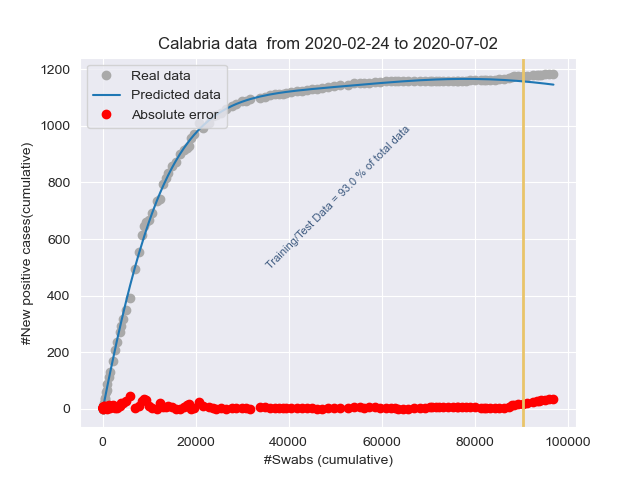
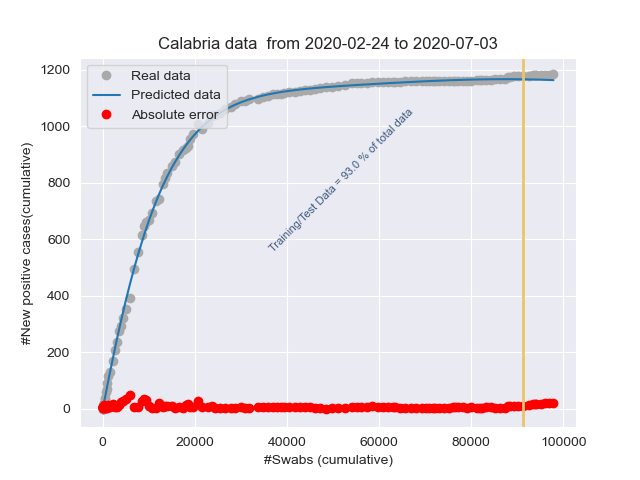
Add files via upload

diff --git a/stat_Friuli Venezia Giulia.html b/stat_Friuli Venezia Giulia.html
@@ -1,1 +1,1 @@
-<!DOCTYPE html><html lang="it"><head><title>Results</title><meta charset="utf-8"><meta name="viewport" content="width=device-width, initial-scale=1"><link rel="stylesheet" href="bootstrap.min.css"><script src="https://ajax.googleapis.com/ajax/libs/jquery/3.4.1/jquery.min.js"></script><script src="https://maxcdn.bootstrapcdn.com/bootstrap/3.4.1/js/bootstrap.min.js"></script></head><body><h3>Day: 2020-07-02</h3><p class="lead my-3">New positive cases: <b>2</b></p><p class="lead my-3">Variation of positive cases: <b>-50.0%</b></p><p class="lead my-3">Number of swabs: <b>2289.0</b></p><p class="lead my-3">Variation of swabs: <b>1.19%</b></p><p class="lead my-3">Postive cases/Swabs: <b>0.09 %</b></p><p class="lead my-3">Number of people admitted to Intensive care: <b>0</b></p><p class="lead my-3">Number of recovered people: <b>-4.0</b></p><p class="lead my-3">Number of dead people: <b>0.0</b></p><h3>Total</h3><p class="lead my-3">Population of  Friuli Venezia Giulia: <b>1215220</b> <a href="http://dati.istat.it/Index.aspx?QueryId=18548" target="_blank">ISTAT data</a></p><p class="lead my-3">Total number of positive cases from 2020-02-24 00:00:00 to 2020-07-02: <b> 3314</b></p><p class="lead my-3">Total number of swabs from 2020-02-24 00:00:00 to 2020-07-02: <b> 194395</b></p><p class="lead my-3">TotalSwabs/Population: <b> 16.0%</b></p></body></html>
+<!DOCTYPE html><html lang="it"><head><title>Results</title><meta charset="utf-8"><meta name="viewport" content="width=device-width, initial-scale=1"><link rel="stylesheet" href="bootstrap.min.css"><script src="https://ajax.googleapis.com/ajax/libs/jquery/3.4.1/jquery.min.js"></script><script src="https://maxcdn.bootstrapcdn.com/bootstrap/3.4.1/js/bootstrap.min.js"></script></head><body><h3>Day: 2020-07-03</h3><p class="lead my-3">New positive cases: <b>4</b></p><p class="lead my-3">Variation of positive cases: <b>100.0%</b></p><p class="lead my-3">Number of swabs: <b>2580.0</b></p><p class="lead my-3">Variation of swabs: <b>1.33%</b></p><p class="lead my-3">Postive cases/Swabs: <b>0.16 %</b></p><p class="lead my-3">Number of people admitted to Intensive care: <b>0</b></p><p class="lead my-3">Number of recovered people: <b>-2.0</b></p><p class="lead my-3">Number of dead people: <b>0.0</b></p><h3>Total</h3><p class="lead my-3">Population of  Friuli Venezia Giulia: <b>1215220</b> <a href="http://dati.istat.it/Index.aspx?QueryId=18548" target="_blank">ISTAT data</a></p><p class="lead my-3">Total number of positive cases from 2020-02-24 00:00:00 to 2020-07-03: <b> 3318</b></p><p class="lead my-3">Total number of swabs from 2020-02-24 00:00:00 to 2020-07-03: <b> 196975</b></p><p class="lead my-3">TotalSwabs/Population: <b> 16.21%</b></p></body></html>

diff --git a/stat_Lombardia.html b/stat_Lombardia.html
@@ -1,1 +1,1 @@
-<!DOCTYPE html><html lang="it"><head><title>Results</title><meta charset="utf-8"><meta name="viewport" content="width=device-width, initial-scale=1"><link rel="stylesheet" href="bootstrap.min.css"><script src="https://ajax.googleapis.com/ajax/libs/jquery/3.4.1/jquery.min.js"></script><script src="https://maxcdn.bootstrapcdn.com/bootstrap/3.4.1/js/bootstrap.min.js"></script></head><body><h3>Day: 2020-07-02</h3><p class="lead my-3">New positive cases: <b>98</b></p><p class="lead my-3">Variation of positive cases: <b>-10.09%</b></p><p class="lead my-3">Number of swabs: <b>9440.0</b></p><p class="lead my-3">Variation of swabs: <b>0.9%</b></p><p class="lead my-3">Postive cases/Swabs: <b>1.04 %</b></p><p class="lead my-3">Number of people admitted to Intensive care: <b>41</b></p><p class="lead my-3">Number of recovered people: <b>188.0</b></p><p class="lead my-3">Number of dead people: <b>21.0</b></p><h3>Total</h3><p class="lead my-3">Population of  Lombardia: <b>10060574</b> <a href="http://dati.istat.it/Index.aspx?QueryId=18548" target="_blank">ISTAT data</a></p><p class="lead my-3">Total number of positive cases from 2020-02-24 00:00:00 to 2020-07-02: <b> 94102</b></p><p class="lead my-3">Total number of swabs from 2020-02-24 00:00:00 to 2020-07-02: <b> 1054415</b></p><p class="lead my-3">TotalSwabs/Population: <b> 10.48%</b></p></body></html>
+<!DOCTYPE html><html lang="it"><head><title>Results</title><meta charset="utf-8"><meta name="viewport" content="width=device-width, initial-scale=1"><link rel="stylesheet" href="bootstrap.min.css"><script src="https://ajax.googleapis.com/ajax/libs/jquery/3.4.1/jquery.min.js"></script><script src="https://maxcdn.bootstrapcdn.com/bootstrap/3.4.1/js/bootstrap.min.js"></script></head><body><h3>Day: 2020-07-03</h3><p class="lead my-3">New positive cases: <b>115</b></p><p class="lead my-3">Variation of positive cases: <b>17.35%</b></p><p class="lead my-3">Number of swabs: <b>9758.0</b></p><p class="lead my-3">Variation of swabs: <b>0.93%</b></p><p class="lead my-3">Postive cases/Swabs: <b>1.18 %</b></p><p class="lead my-3">Number of people admitted to Intensive care: <b>41</b></p><p class="lead my-3">Number of recovered people: <b>261.0</b></p><p class="lead my-3">Number of dead people: <b>4.0</b></p><h3>Total</h3><p class="lead my-3">Population of  Lombardia: <b>10060574</b> <a href="http://dati.istat.it/Index.aspx?QueryId=18548" target="_blank">ISTAT data</a></p><p class="lead my-3">Total number of positive cases from 2020-02-24 00:00:00 to 2020-07-03: <b> 94217</b></p><p class="lead my-3">Total number of swabs from 2020-02-24 00:00:00 to 2020-07-03: <b> 1064173</b></p><p class="lead my-3">TotalSwabs/Population: <b> 10.58%</b></p></body></html>

diff --git a/stat_Emilia-Romagna.html b/stat_Emilia-Romagna.html
@@ -1,1 +1,1 @@
-<!DOCTYPE html><html lang="it"><head><title>Results</title><meta charset="utf-8"><meta name="viewport" content="width=device-width, initial-scale=1"><link rel="stylesheet" href="bootstrap.min.css"><script src="https://ajax.googleapis.com/ajax/libs/jquery/3.4.1/jquery.min.js"></script><script src="https://maxcdn.bootstrapcdn.com/bootstrap/3.4.1/js/bootstrap.min.js"></script></head><body><h3>Day: 2020-07-02</h3><p class="lead my-3">New positive cases: <b>27</b></p><p class="lead my-3">Variation of positive cases: <b>68.75%</b></p><p class="lead my-3">Number of swabs: <b>4862.0</b></p><p class="lead my-3">Variation of swabs: <b>0.97%</b></p><p class="lead my-3">Postive cases/Swabs: <b>0.56 %</b></p><p class="lead my-3">Number of people admitted to Intensive care: <b>9</b></p><p class="lead my-3">Number of recovered people: <b>25.0</b></p><p class="lead my-3">Number of dead people: <b>1.0</b></p><h3>Total</h3><p class="lead my-3">Population of  Emilia-Romagna: <b>4459477</b> <a href="http://dati.istat.it/Index.aspx?QueryId=18548" target="_blank">ISTAT data</a></p><p class="lead my-3">Total number of positive cases from 2020-02-24 00:00:00 to 2020-07-02: <b> 28539</b></p><p class="lead my-3">Total number of swabs from 2020-02-24 00:00:00 to 2020-07-02: <b> 504288</b></p><p class="lead my-3">TotalSwabs/Population: <b> 11.31%</b></p></body></html>
+<!DOCTYPE html><html lang="it"><head><title>Results</title><meta charset="utf-8"><meta name="viewport" content="width=device-width, initial-scale=1"><link rel="stylesheet" href="bootstrap.min.css"><script src="https://ajax.googleapis.com/ajax/libs/jquery/3.4.1/jquery.min.js"></script><script src="https://maxcdn.bootstrapcdn.com/bootstrap/3.4.1/js/bootstrap.min.js"></script></head><body><h3>Day: 2020-07-03</h3><p class="lead my-3">New positive cases: <b>27</b></p><p class="lead my-3">Variation of positive cases: <b>0.0%</b></p><p class="lead my-3">Number of swabs: <b>4403.0</b></p><p class="lead my-3">Variation of swabs: <b>0.87%</b></p><p class="lead my-3">Postive cases/Swabs: <b>0.61 %</b></p><p class="lead my-3">Number of people admitted to Intensive care: <b>9</b></p><p class="lead my-3">Number of recovered people: <b>17.0</b></p><p class="lead my-3">Number of dead people: <b>2.0</b></p><h3>Total</h3><p class="lead my-3">Population of  Emilia-Romagna: <b>4459477</b> <a href="http://dati.istat.it/Index.aspx?QueryId=18548" target="_blank">ISTAT data</a></p><p class="lead my-3">Total number of positive cases from 2020-02-24 00:00:00 to 2020-07-03: <b> 28566</b></p><p class="lead my-3">Total number of swabs from 2020-02-24 00:00:00 to 2020-07-03: <b> 508691</b></p><p class="lead my-3">TotalSwabs/Population: <b> 11.41%</b></p></body></html>

diff --git a/stat_Italy.html b/stat_Italy.html
@@ -1,1 +1,1 @@
-<!DOCTYPE html><html lang="it"><head><title>Results</title><meta charset="utf-8"><meta name="viewport" content="width=device-width, initial-scale=1"><link rel="stylesheet" href="bootstrap.min.css"><script src="https://ajax.googleapis.com/ajax/libs/jquery/3.4.1/jquery.min.js"></script><script src="https://maxcdn.bootstrapcdn.com/bootstrap/3.4.1/js/bootstrap.min.js"></script></head><body><h3>Day: 2020-07-02</h3><p class="lead my-3">New positive cases: <b>201</b></p><p class="lead my-3">Variation of positive cases: <b>7.49%</b></p><p class="lead my-3">Number of swabs: <b>53243.0</b></p><p class="lead my-3">Variation of swabs: <b>0.98%</b></p><p class="lead my-3">Postive cases/Swabs: <b>0.38 %</b></p><p class="lead my-3">Number of people admitted to Intensive care: <b>82</b></p><p class="lead my-3">Number of recovered people: <b>366.0</b></p><p class="lead my-3">Number of dead people: <b>30.0</b></p><h3>Total</h3><p class="lead my-3">Population of  Italy: <b>60359546</b> <a href="http://dati.istat.it/Index.aspx?QueryId=18548" target="_blank">ISTAT data</a></p><p class="lead my-3">Total number of positive cases from 2020-02-24 00:00:00 to 2020-07-02: <b> 240983</b></p><p class="lead my-3">Total number of swabs from 2020-02-24 00:00:00 to 2020-07-02: <b> 5498719</b></p><p class="lead my-3">TotalSwabs/Population: <b> 9.11%</b></p></body></html>
+<!DOCTYPE html><html lang="it"><head><title>Results</title><meta charset="utf-8"><meta name="viewport" content="width=device-width, initial-scale=1"><link rel="stylesheet" href="bootstrap.min.css"><script src="https://ajax.googleapis.com/ajax/libs/jquery/3.4.1/jquery.min.js"></script><script src="https://maxcdn.bootstrapcdn.com/bootstrap/3.4.1/js/bootstrap.min.js"></script></head><body><h3>Day: 2020-07-03</h3><p class="lead my-3">New positive cases: <b>223</b></p><p class="lead my-3">Variation of positive cases: <b>10.95%</b></p><p class="lead my-3">Number of swabs: <b>77096.0</b></p><p class="lead my-3">Variation of swabs: <b>1.4%</b></p><p class="lead my-3">Postive cases/Swabs: <b>0.29 %</b></p><p class="lead my-3">Number of people admitted to Intensive care: <b>79</b></p><p class="lead my-3">Number of recovered people: <b>384.0</b></p><p class="lead my-3">Number of dead people: <b>15.0</b></p><h3>Total</h3><p class="lead my-3">Population of  Italy: <b>60359546</b> <a href="http://dati.istat.it/Index.aspx?QueryId=18548" target="_blank">ISTAT data</a></p><p class="lead my-3">Total number of positive cases from 2020-02-24 00:00:00 to 2020-07-03: <b> 241206</b></p><p class="lead my-3">Total number of swabs from 2020-02-24 00:00:00 to 2020-07-03: <b> 5575815</b></p><p class="lead my-3">TotalSwabs/Population: <b> 9.24%</b></p></body></html>

diff --git a/stat_Piemonte.html b/stat_Piemonte.html
@@ -1,1 +1,1 @@
-<!DOCTYPE html><html lang="it"><head><title>Results</title><meta charset="utf-8"><meta name="viewport" content="width=device-width, initial-scale=1"><link rel="stylesheet" href="bootstrap.min.css"><script src="https://ajax.googleapis.com/ajax/libs/jquery/3.4.1/jquery.min.js"></script><script src="https://maxcdn.bootstrapcdn.com/bootstrap/3.4.1/js/bootstrap.min.js"></script></head><body><h3>Day: 2020-07-02</h3><p class="lead my-3">New positive cases: <b>13</b></p><p class="lead my-3">Variation of positive cases: <b>-18.75%</b></p><p class="lead my-3">Number of swabs: <b>3356.0</b></p><p class="lead my-3">Variation of swabs: <b>0.8%</b></p><p class="lead my-3">Postive cases/Swabs: <b>0.39 %</b></p><p class="lead my-3">Number of people admitted to Intensive care: <b>11</b></p><p class="lead my-3">Number of recovered people: <b>62.0</b></p><p class="lead my-3">Number of dead people: <b>5.0</b></p><h3>Total</h3><p class="lead my-3">Population of  Piemonte: <b>4356406</b> <a href="http://dati.istat.it/Index.aspx?QueryId=18548" target="_blank">ISTAT data</a></p><p class="lead my-3">Total number of positive cases from 2020-02-24 00:00:00 to 2020-07-02: <b> 31378</b></p><p class="lead my-3">Total number of swabs from 2020-02-24 00:00:00 to 2020-07-02: <b> 422647</b></p><p class="lead my-3">TotalSwabs/Population: <b> 9.7%</b></p></body></html>
+<!DOCTYPE html><html lang="it"><head><title>Results</title><meta charset="utf-8"><meta name="viewport" content="width=device-width, initial-scale=1"><link rel="stylesheet" href="bootstrap.min.css"><script src="https://ajax.googleapis.com/ajax/libs/jquery/3.4.1/jquery.min.js"></script><script src="https://maxcdn.bootstrapcdn.com/bootstrap/3.4.1/js/bootstrap.min.js"></script></head><body><h3>Day: 2020-07-03</h3><p class="lead my-3">New positive cases: <b>16</b></p><p class="lead my-3">Variation of positive cases: <b>23.08%</b></p><p class="lead my-3">Number of swabs: <b>29405.0</b></p><p class="lead my-3">Variation of swabs: <b>6.96%</b></p><p class="lead my-3">Postive cases/Swabs: <b>0.05 %</b></p><p class="lead my-3">Number of people admitted to Intensive care: <b>10</b></p><p class="lead my-3">Number of recovered people: <b>36.0</b></p><p class="lead my-3">Number of dead people: <b>4.0</b></p><h3>Total</h3><p class="lead my-3">Population of  Piemonte: <b>4356406</b> <a href="http://dati.istat.it/Index.aspx?QueryId=18548" target="_blank">ISTAT data</a></p><p class="lead my-3">Total number of positive cases from 2020-02-24 00:00:00 to 2020-07-03: <b> 31394</b></p><p class="lead my-3">Total number of swabs from 2020-02-24 00:00:00 to 2020-07-03: <b> 452052</b></p><p class="lead my-3">TotalSwabs/Population: <b> 10.38%</b></p></body></html>

diff --git a/stat_Veneto.html b/stat_Veneto.html
@@ -1,1 +1,1 @@
-<!DOCTYPE html><html lang="it"><head><title>Results</title><meta charset="utf-8"><meta name="viewport" content="width=device-width, initial-scale=1"><link rel="stylesheet" href="bootstrap.min.css"><script src="https://ajax.googleapis.com/ajax/libs/jquery/3.4.1/jquery.min.js"></script><script src="https://maxcdn.bootstrapcdn.com/bootstrap/3.4.1/js/bootstrap.min.js"></script></head><body><h3>Day: 2020-07-02</h3><p class="lead my-3">New positive cases: <b>20</b></p><p class="lead my-3">Variation of positive cases: <b>566.67%</b></p><p class="lead my-3">Number of swabs: <b>11821.0</b></p><p class="lead my-3">Variation of swabs: <b>1.22%</b></p><p class="lead my-3">Postive cases/Swabs: <b>0.17 %</b></p><p class="lead my-3">Number of people admitted to Intensive care: <b>0</b></p><p class="lead my-3">Number of recovered people: <b>41.0</b></p><p class="lead my-3">Number of dead people: <b>0.0</b></p><h3>Total</h3><p class="lead my-3">Population of  Veneto: <b>4905854</b> <a href="http://dati.istat.it/Index.aspx?QueryId=18548" target="_blank">ISTAT data</a></p><p class="lead my-3">Total number of positive cases from 2020-02-24 00:00:00 to 2020-07-02: <b> 19308</b></p><p class="lead my-3">Total number of swabs from 2020-02-24 00:00:00 to 2020-07-02: <b> 982614</b></p><p class="lead my-3">TotalSwabs/Population: <b> 20.03%</b></p></body></html>
+<!DOCTYPE html><html lang="it"><head><title>Results</title><meta charset="utf-8"><meta name="viewport" content="width=device-width, initial-scale=1"><link rel="stylesheet" href="bootstrap.min.css"><script src="https://ajax.googleapis.com/ajax/libs/jquery/3.4.1/jquery.min.js"></script><script src="https://maxcdn.bootstrapcdn.com/bootstrap/3.4.1/js/bootstrap.min.js"></script></head><body><h3>Day: 2020-07-03</h3><p class="lead my-3">New positive cases: <b>5</b></p><p class="lead my-3">Variation of positive cases: <b>-75.0%</b></p><p class="lead my-3">Number of swabs: <b>9954.0</b></p><p class="lead my-3">Variation of swabs: <b>1.01%</b></p><p class="lead my-3">Postive cases/Swabs: <b>0.05 %</b></p><p class="lead my-3">Number of people admitted to Intensive care: <b>0</b></p><p class="lead my-3">Number of recovered people: <b>11.0</b></p><p class="lead my-3">Number of dead people: <b>1.0</b></p><h3>Total</h3><p class="lead my-3">Population of  Veneto: <b>4905854</b> <a href="http://dati.istat.it/Index.aspx?QueryId=18548" target="_blank">ISTAT data</a></p><p class="lead my-3">Total number of positive cases from 2020-02-24 00:00:00 to 2020-07-03: <b> 19313</b></p><p class="lead my-3">Total number of swabs from 2020-02-24 00:00:00 to 2020-07-03: <b> 992568</b></p><p class="lead my-3">TotalSwabs/Population: <b> 20.23%</b></p></body></html>

diff --git a/stat_P.A. Trento.html b/stat_P.A. Trento.html
@@ -1,1 +1,1 @@
-<!DOCTYPE html><html lang="it"><head><title>Results</title><meta charset="utf-8"><meta name="viewport" content="width=device-width, initial-scale=1"><link rel="stylesheet" href="bootstrap.min.css"><script src="https://ajax.googleapis.com/ajax/libs/jquery/3.4.1/jquery.min.js"></script><script src="https://maxcdn.bootstrapcdn.com/bootstrap/3.4.1/js/bootstrap.min.js"></script></head><body><h3>Day: 2020-07-02</h3><p class="lead my-3">New positive cases: <b>1</b></p><p class="lead my-3">Variation of positive cases: <b>0.0%</b></p><p class="lead my-3">Number of swabs: <b>1290.0</b></p><p class="lead my-3">Variation of swabs: <b>1.05%</b></p><p class="lead my-3">Postive cases/Swabs: <b>0.08 %</b></p><p class="lead my-3">Number of people admitted to Intensive care: <b>0</b></p><p class="lead my-3">Number of recovered people: <b>2.0</b></p><p class="lead my-3">Number of dead people: <b>0.0</b></p><h3>Total</h3><p class="lead my-3">Population of  P.A. Trento: <b>541098</b> <a href="http://dati.istat.it/Index.aspx?QueryId=18548" target="_blank">ISTAT data</a></p><p class="lead my-3">Total number of positive cases from 2020-02-24 00:00:00 to 2020-07-02: <b> 4478</b></p><p class="lead my-3">Total number of swabs from 2020-02-24 00:00:00 to 2020-07-02: <b> 123864</b></p><p class="lead my-3">TotalSwabs/Population: <b> 22.89%</b></p></body></html>
+<!DOCTYPE html><html lang="it"><head><title>Results</title><meta charset="utf-8"><meta name="viewport" content="width=device-width, initial-scale=1"><link rel="stylesheet" href="bootstrap.min.css"><script src="https://ajax.googleapis.com/ajax/libs/jquery/3.4.1/jquery.min.js"></script><script src="https://maxcdn.bootstrapcdn.com/bootstrap/3.4.1/js/bootstrap.min.js"></script></head><body><h3>Day: 2020-07-03</h3><p class="lead my-3">New positive cases: <b>6</b></p><p class="lead my-3">Variation of positive cases: <b>500.0%</b></p><p class="lead my-3">Number of swabs: <b>1342.0</b></p><p class="lead my-3">Variation of swabs: <b>1.08%</b></p><p class="lead my-3">Postive cases/Swabs: <b>0.45 %</b></p><p class="lead my-3">Number of people admitted to Intensive care: <b>0</b></p><p class="lead my-3">Number of recovered people: <b>6.0</b></p><p class="lead my-3">Number of dead people: <b>0.0</b></p><h3>Total</h3><p class="lead my-3">Population of  P.A. Trento: <b>541098</b> <a href="http://dati.istat.it/Index.aspx?QueryId=18548" target="_blank">ISTAT data</a></p><p class="lead my-3">Total number of positive cases from 2020-02-24 00:00:00 to 2020-07-03: <b> 4484</b></p><p class="lead my-3">Total number of swabs from 2020-02-24 00:00:00 to 2020-07-03: <b> 125206</b></p><p class="lead my-3">TotalSwabs/Population: <b> 23.14%</b></p></body></html>

diff --git a/stat_Campania.html b/stat_Campania.html
@@ -1,1 +1,1 @@
-<!DOCTYPE html><html lang="it"><head><title>Results</title><meta charset="utf-8"><meta name="viewport" content="width=device-width, initial-scale=1"><link rel="stylesheet" href="bootstrap.min.css"><script src="https://ajax.googleapis.com/ajax/libs/jquery/3.4.1/jquery.min.js"></script><script src="https://maxcdn.bootstrapcdn.com/bootstrap/3.4.1/js/bootstrap.min.js"></script></head><body><h3>Day: 2020-07-02</h3><p class="lead my-3">New positive cases: <b>3</b></p><p class="lead my-3">Variation of positive cases: <b>-66.67%</b></p><p class="lead my-3">Number of swabs: <b>1424.0</b></p><p class="lead my-3">Variation of swabs: <b>0.5%</b></p><p class="lead my-3">Postive cases/Swabs: <b>0.21 %</b></p><p class="lead my-3">Number of people admitted to Intensive care: <b>0</b></p><p class="lead my-3">Number of recovered people: <b>2.0</b></p><p class="lead my-3">Number of dead people: <b>0.0</b></p><h3>Total</h3><p class="lead my-3">Population of  Campania: <b>5801692</b> <a href="http://dati.istat.it/Index.aspx?QueryId=18548" target="_blank">ISTAT data</a></p><p class="lead my-3">Total number of positive cases from 2020-02-24 00:00:00 to 2020-07-02: <b> 4702</b></p><p class="lead my-3">Total number of swabs from 2020-02-24 00:00:00 to 2020-07-02: <b> 286812</b></p><p class="lead my-3">TotalSwabs/Population: <b> 4.94%</b></p></body></html>
+<!DOCTYPE html><html lang="it"><head><title>Results</title><meta charset="utf-8"><meta name="viewport" content="width=device-width, initial-scale=1"><link rel="stylesheet" href="bootstrap.min.css"><script src="https://ajax.googleapis.com/ajax/libs/jquery/3.4.1/jquery.min.js"></script><script src="https://maxcdn.bootstrapcdn.com/bootstrap/3.4.1/js/bootstrap.min.js"></script></head><body><h3>Day: 2020-07-03</h3><p class="lead my-3">New positive cases: <b>10</b></p><p class="lead my-3">Variation of positive cases: <b>233.33%</b></p><p class="lead my-3">Number of swabs: <b>2441.0</b></p><p class="lead my-3">Variation of swabs: <b>0.85%</b></p><p class="lead my-3">Postive cases/Swabs: <b>0.41 %</b></p><p class="lead my-3">Number of people admitted to Intensive care: <b>0</b></p><p class="lead my-3">Number of recovered people: <b>3.0</b></p><p class="lead my-3">Number of dead people: <b>0.0</b></p><h3>Total</h3><p class="lead my-3">Population of  Campania: <b>5801692</b> <a href="http://dati.istat.it/Index.aspx?QueryId=18548" target="_blank">ISTAT data</a></p><p class="lead my-3">Total number of positive cases from 2020-02-24 00:00:00 to 2020-07-03: <b> 4712</b></p><p class="lead my-3">Total number of swabs from 2020-02-24 00:00:00 to 2020-07-03: <b> 289253</b></p><p class="lead my-3">TotalSwabs/Population: <b> 4.99%</b></p></body></html>

diff --git a/stat_P.A. Bolzano.html b/stat_P.A. Bolzano.html
@@ -1,1 +1,1 @@
-<!DOCTYPE html><html lang="it"><head><title>Results</title><meta charset="utf-8"><meta name="viewport" content="width=device-width, initial-scale=1"><link rel="stylesheet" href="bootstrap.min.css"><script src="https://ajax.googleapis.com/ajax/libs/jquery/3.4.1/jquery.min.js"></script><script src="https://maxcdn.bootstrapcdn.com/bootstrap/3.4.1/js/bootstrap.min.js"></script></head><body><h3>Day: 2020-07-02</h3><p class="lead my-3">New positive cases: <b>0</b></p><p class="lead my-3">Variation of positive cases: <b>-100.0%</b></p><p class="lead my-3">Number of swabs: <b>577.0</b></p><p class="lead my-3">Variation of swabs: <b>0.68%</b></p><p class="lead my-3">Postive cases/Swabs: <b>0.0 %</b></p><p class="lead my-3">Number of people admitted to Intensive care: <b>0</b></p><p class="lead my-3">Number of recovered people: <b>0.0</b></p><p class="lead my-3">Number of dead people: <b>0.0</b></p><h3>Total</h3><p class="lead my-3">Population of  P.A. Bolzano: <b>531178</b> <a href="http://dati.istat.it/Index.aspx?QueryId=18548" target="_blank">ISTAT data</a></p><p class="lead my-3">Total number of positive cases from 2020-02-24 00:00:00 to 2020-07-02: <b> 2641</b></p><p class="lead my-3">Total number of swabs from 2020-02-24 00:00:00 to 2020-07-02: <b> 85423</b></p><p class="lead my-3">TotalSwabs/Population: <b> 16.08%</b></p></body></html>
+<!DOCTYPE html><html lang="it"><head><title>Results</title><meta charset="utf-8"><meta name="viewport" content="width=device-width, initial-scale=1"><link rel="stylesheet" href="bootstrap.min.css"><script src="https://ajax.googleapis.com/ajax/libs/jquery/3.4.1/jquery.min.js"></script><script src="https://maxcdn.bootstrapcdn.com/bootstrap/3.4.1/js/bootstrap.min.js"></script></head><body><h3>Day: 2020-07-03</h3><p class="lead my-3">New positive cases: <b>0</b></p><p class="lead my-3">Variation of positive cases: <b>0.0%</b></p><p class="lead my-3">Number of swabs: <b>515.0</b></p><p class="lead my-3">Variation of swabs: <b>0.6%</b></p><p class="lead my-3">Postive cases/Swabs: <b>0.0 %</b></p><p class="lead my-3">Number of people admitted to Intensive care: <b>0</b></p><p class="lead my-3">Number of recovered people: <b>1.0</b></p><p class="lead my-3">Number of dead people: <b>0.0</b></p><h3>Total</h3><p class="lead my-3">Population of  P.A. Bolzano: <b>531178</b> <a href="http://dati.istat.it/Index.aspx?QueryId=18548" target="_blank">ISTAT data</a></p><p class="lead my-3">Total number of positive cases from 2020-02-24 00:00:00 to 2020-07-03: <b> 2641</b></p><p class="lead my-3">Total number of swabs from 2020-02-24 00:00:00 to 2020-07-03: <b> 85938</b></p><p class="lead my-3">TotalSwabs/Population: <b> 16.18%</b></p></body></html>

diff --git a/stat_Sicilia.html b/stat_Sicilia.html
@@ -1,1 +1,1 @@
-<!DOCTYPE html><html lang="it"><head><title>Results</title><meta charset="utf-8"><meta name="viewport" content="width=device-width, initial-scale=1"><link rel="stylesheet" href="bootstrap.min.css"><script src="https://ajax.googleapis.com/ajax/libs/jquery/3.4.1/jquery.min.js"></script><script src="https://maxcdn.bootstrapcdn.com/bootstrap/3.4.1/js/bootstrap.min.js"></script></head><body><h3>Day: 2020-07-02</h3><p class="lead my-3">New positive cases: <b>9</b></p><p class="lead my-3">Variation of positive cases: <b>800.0%</b></p><p class="lead my-3">Number of swabs: <b>2821.0</b></p><p class="lead my-3">Variation of swabs: <b>1.33%</b></p><p class="lead my-3">Postive cases/Swabs: <b>0.32 %</b></p><p class="lead my-3">Number of people admitted to Intensive care: <b>3</b></p><p class="lead my-3">Number of recovered people: <b>1.0</b></p><p class="lead my-3">Number of dead people: <b>0.0</b></p><h3>Total</h3><p class="lead my-3">Population of  Sicilia: <b>4999891</b> <a href="http://dati.istat.it/Index.aspx?QueryId=18548" target="_blank">ISTAT data</a></p><p class="lead my-3">Total number of positive cases from 2020-02-24 00:00:00 to 2020-07-02: <b> 3487</b></p><p class="lead my-3">Total number of swabs from 2020-02-24 00:00:00 to 2020-07-02: <b> 214317</b></p><p class="lead my-3">TotalSwabs/Population: <b> 4.29%</b></p></body></html>
+<!DOCTYPE html><html lang="it"><head><title>Results</title><meta charset="utf-8"><meta name="viewport" content="width=device-width, initial-scale=1"><link rel="stylesheet" href="bootstrap.min.css"><script src="https://ajax.googleapis.com/ajax/libs/jquery/3.4.1/jquery.min.js"></script><script src="https://maxcdn.bootstrapcdn.com/bootstrap/3.4.1/js/bootstrap.min.js"></script></head><body><h3>Day: 2020-07-03</h3><p class="lead my-3">New positive cases: <b>1</b></p><p class="lead my-3">Variation of positive cases: <b>-88.89%</b></p><p class="lead my-3">Number of swabs: <b>2830.0</b></p><p class="lead my-3">Variation of swabs: <b>1.32%</b></p><p class="lead my-3">Postive cases/Swabs: <b>0.04 %</b></p><p class="lead my-3">Number of people admitted to Intensive care: <b>2</b></p><p class="lead my-3">Number of recovered people: <b>0.0</b></p><p class="lead my-3">Number of dead people: <b>0.0</b></p><h3>Total</h3><p class="lead my-3">Population of  Sicilia: <b>4999891</b> <a href="http://dati.istat.it/Index.aspx?QueryId=18548" target="_blank">ISTAT data</a></p><p class="lead my-3">Total number of positive cases from 2020-02-24 00:00:00 to 2020-07-03: <b> 3488</b></p><p class="lead my-3">Total number of swabs from 2020-02-24 00:00:00 to 2020-07-03: <b> 217147</b></p><p class="lead my-3">TotalSwabs/Population: <b> 4.34%</b></p></body></html>

diff --git a/stat_Lazio.html b/stat_Lazio.html
@@ -1,1 +1,1 @@
-<!DOCTYPE html><html lang="it"><head><title>Results</title><meta charset="utf-8"><meta name="viewport" content="width=device-width, initial-scale=1"><link rel="stylesheet" href="bootstrap.min.css"><script src="https://ajax.googleapis.com/ajax/libs/jquery/3.4.1/jquery.min.js"></script><script src="https://maxcdn.bootstrapcdn.com/bootstrap/3.4.1/js/bootstrap.min.js"></script></head><body><h3>Day: 2020-07-02</h3><p class="lead my-3">New positive cases: <b>11</b></p><p class="lead my-3">Variation of positive cases: <b>22.22%</b></p><p class="lead my-3">Number of swabs: <b>2799.0</b></p><p class="lead my-3">Variation of swabs: <b>0.82%</b></p><p class="lead my-3">Postive cases/Swabs: <b>0.39 %</b></p><p class="lead my-3">Number of people admitted to Intensive care: <b>11</b></p><p class="lead my-3">Number of recovered people: <b>12.0</b></p><p class="lead my-3">Number of dead people: <b>0.0</b></p><h3>Total</h3><p class="lead my-3">Population of  Lazio: <b>5879082</b> <a href="http://dati.istat.it/Index.aspx?QueryId=18548" target="_blank">ISTAT data</a></p><p class="lead my-3">Total number of positive cases from 2020-02-24 00:00:00 to 2020-07-02: <b> 8129</b></p><p class="lead my-3">Total number of swabs from 2020-02-24 00:00:00 to 2020-07-02: <b> 343882</b></p><p class="lead my-3">TotalSwabs/Population: <b> 5.85%</b></p></body></html>
+<!DOCTYPE html><html lang="it"><head><title>Results</title><meta charset="utf-8"><meta name="viewport" content="width=device-width, initial-scale=1"><link rel="stylesheet" href="bootstrap.min.css"><script src="https://ajax.googleapis.com/ajax/libs/jquery/3.4.1/jquery.min.js"></script><script src="https://maxcdn.bootstrapcdn.com/bootstrap/3.4.1/js/bootstrap.min.js"></script></head><body><h3>Day: 2020-07-03</h3><p class="lead my-3">New positive cases: <b>11</b></p><p class="lead my-3">Variation of positive cases: <b>0.0%</b></p><p class="lead my-3">Number of swabs: <b>2357.0</b></p><p class="lead my-3">Variation of swabs: <b>0.69%</b></p><p class="lead my-3">Postive cases/Swabs: <b>0.47 %</b></p><p class="lead my-3">Number of people admitted to Intensive care: <b>11</b></p><p class="lead my-3">Number of recovered people: <b>15.0</b></p><p class="lead my-3">Number of dead people: <b>1.0</b></p><h3>Total</h3><p class="lead my-3">Population of  Lazio: <b>5879082</b> <a href="http://dati.istat.it/Index.aspx?QueryId=18548" target="_blank">ISTAT data</a></p><p class="lead my-3">Total number of positive cases from 2020-02-24 00:00:00 to 2020-07-03: <b> 8140</b></p><p class="lead my-3">Total number of swabs from 2020-02-24 00:00:00 to 2020-07-03: <b> 346239</b></p><p class="lead my-3">TotalSwabs/Population: <b> 5.89%</b></p></body></html>

diff --git a/stat_Marche.html b/stat_Marche.html
@@ -1,1 +1,1 @@
-<!DOCTYPE html><html lang="it"><head><title>Results</title><meta charset="utf-8"><meta name="viewport" content="width=device-width, initial-scale=1"><link rel="stylesheet" href="bootstrap.min.css"><script src="https://ajax.googleapis.com/ajax/libs/jquery/3.4.1/jquery.min.js"></script><script src="https://maxcdn.bootstrapcdn.com/bootstrap/3.4.1/js/bootstrap.min.js"></script></head><body><h3>Day: 2020-07-02</h3><p class="lead my-3">New positive cases: <b>3</b></p><p class="lead my-3">Variation of positive cases: <b>-40.0%</b></p><p class="lead my-3">Number of swabs: <b>1343.0</b></p><p class="lead my-3">Variation of swabs: <b>0.97%</b></p><p class="lead my-3">Postive cases/Swabs: <b>0.22 %</b></p><p class="lead my-3">Number of people admitted to Intensive care: <b>0</b></p><p class="lead my-3">Number of recovered people: <b>13.0</b></p><p class="lead my-3">Number of dead people: <b>0.0</b></p><h3>Total</h3><p class="lead my-3">Population of  Marche: <b>1525271</b> <a href="http://dati.istat.it/Index.aspx?QueryId=18548" target="_blank">ISTAT data</a></p><p class="lead my-3">Total number of positive cases from 2020-02-24 00:00:00 to 2020-07-02: <b> 6790</b></p><p class="lead my-3">Total number of swabs from 2020-02-24 00:00:00 to 2020-07-02: <b> 139893</b></p><p class="lead my-3">TotalSwabs/Population: <b> 9.17%</b></p></body></html>
+<!DOCTYPE html><html lang="it"><head><title>Results</title><meta charset="utf-8"><meta name="viewport" content="width=device-width, initial-scale=1"><link rel="stylesheet" href="bootstrap.min.css"><script src="https://ajax.googleapis.com/ajax/libs/jquery/3.4.1/jquery.min.js"></script><script src="https://maxcdn.bootstrapcdn.com/bootstrap/3.4.1/js/bootstrap.min.js"></script></head><body><h3>Day: 2020-07-03</h3><p class="lead my-3">New positive cases: <b>0</b></p><p class="lead my-3">Variation of positive cases: <b>-100.0%</b></p><p class="lead my-3">Number of swabs: <b>1072.0</b></p><p class="lead my-3">Variation of swabs: <b>0.77%</b></p><p class="lead my-3">Postive cases/Swabs: <b>0.0 %</b></p><p class="lead my-3">Number of people admitted to Intensive care: <b>0</b></p><p class="lead my-3">Number of recovered people: <b>11.0</b></p><p class="lead my-3">Number of dead people: <b>0.0</b></p><h3>Total</h3><p class="lead my-3">Population of  Marche: <b>1525271</b> <a href="http://dati.istat.it/Index.aspx?QueryId=18548" target="_blank">ISTAT data</a></p><p class="lead my-3">Total number of positive cases from 2020-02-24 00:00:00 to 2020-07-03: <b> 6790</b></p><p class="lead my-3">Total number of swabs from 2020-02-24 00:00:00 to 2020-07-03: <b> 140965</b></p><p class="lead my-3">TotalSwabs/Population: <b> 9.24%</b></p></body></html>
